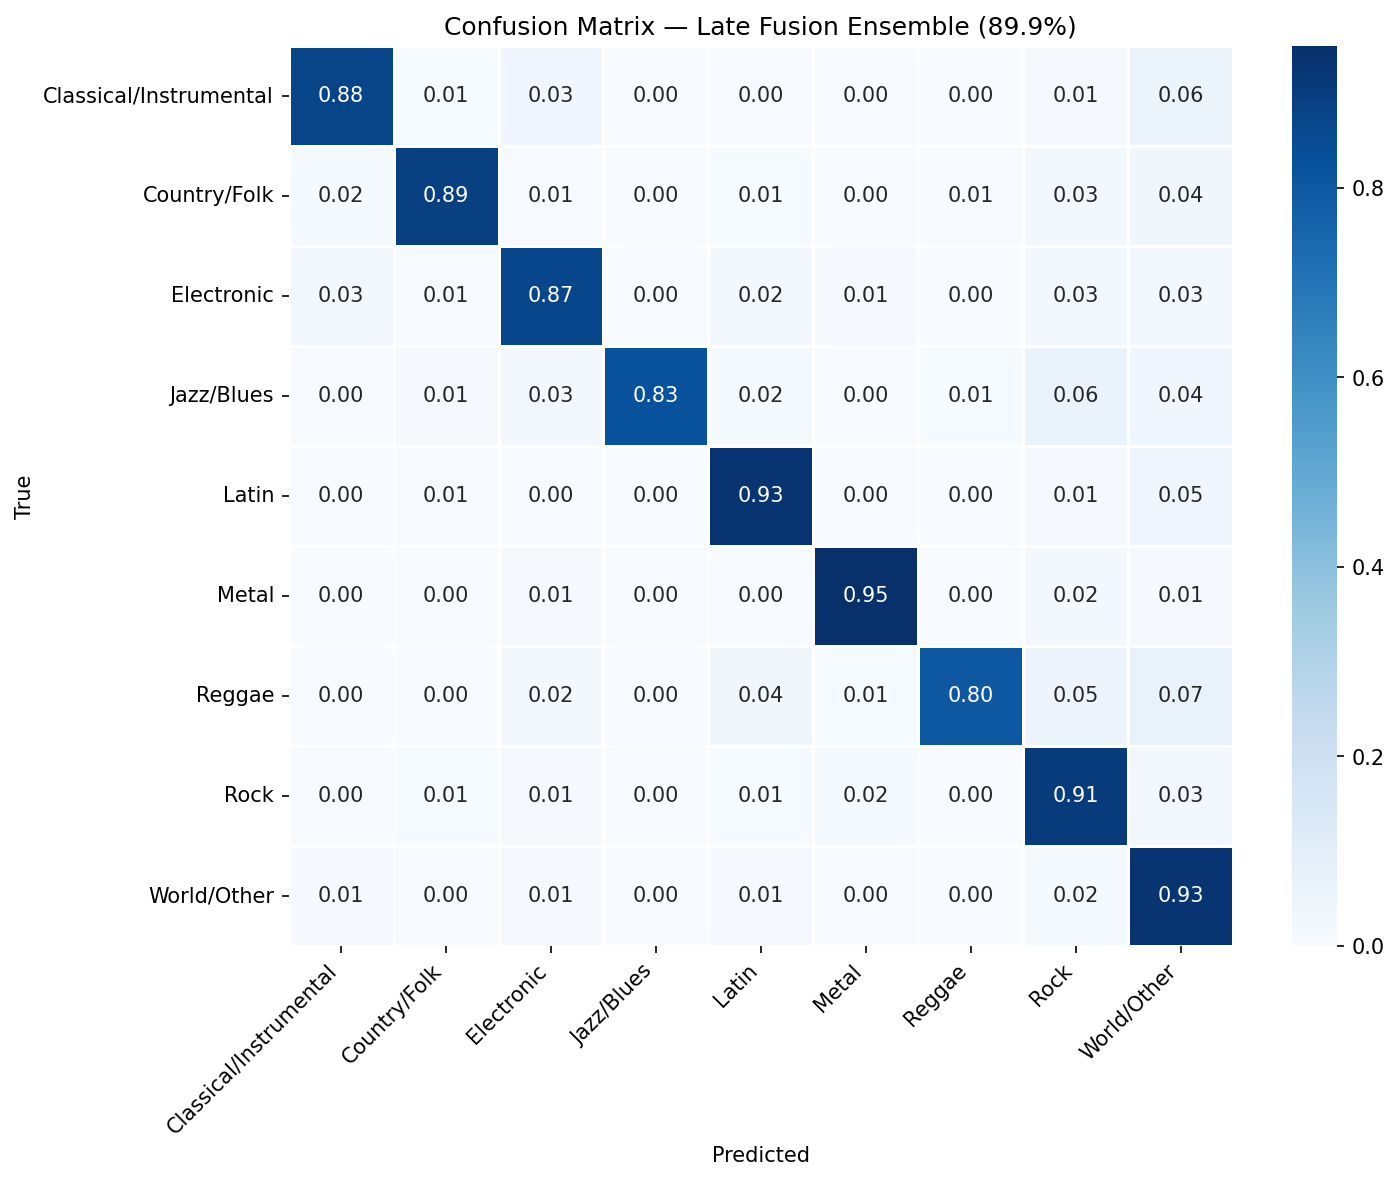
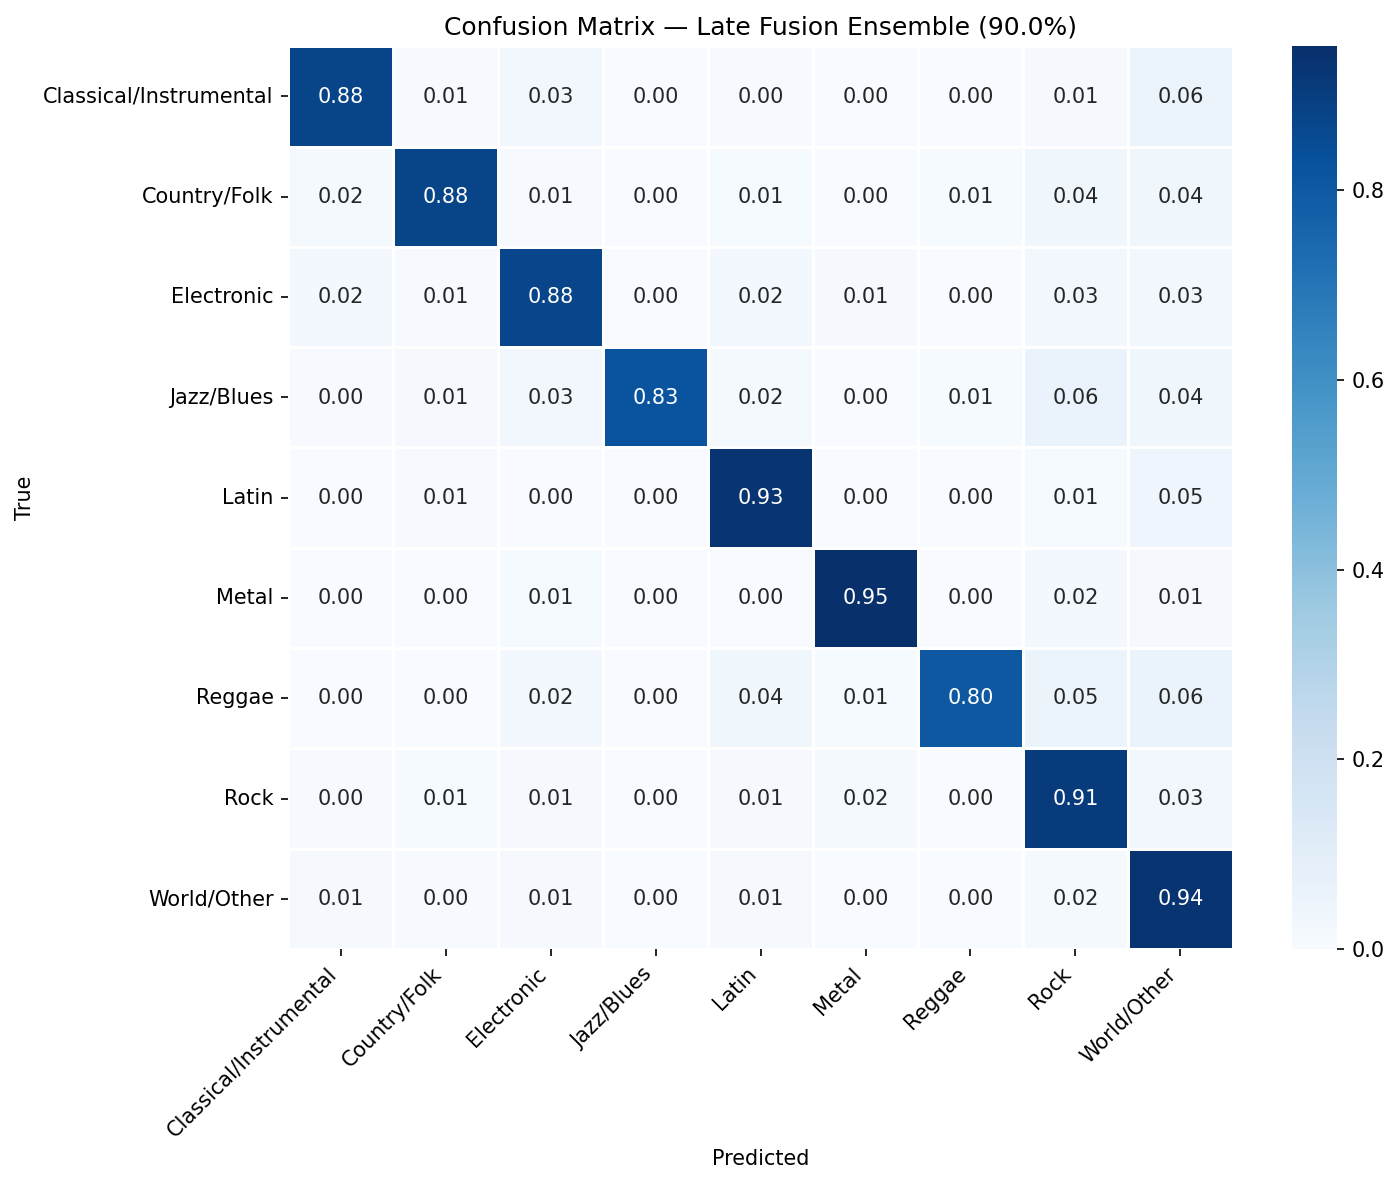
Complete paper draft and add fusion strategy visualization
- Add Visualizations/fusion_strategy.png (Experiment 2 bar chart)
- Update confusion_matrix_final.png

diff --git a/paper_draft.md b/paper_draft.md
@@ -1,20 +1,20 @@
-# Automatic Music Genre Classification Using Spotify Audio Features and MFCC-Based Late Fusion
-### Ensemble Methods for Multi-Class Genre Prediction
+# Automatic Music Genre Classification
+### Using Spotify Audio Features and MFCC-Based Late Fusion
 **Authors:** Aymen Tiguite, Cindy Frempong
 **Boston University | DS 340**
-**April 27, 2026**
+**April 27th 2026**
 
 ---
 
 ## Introduction
 
-Music genre classification is a classic problem in audio and music information retrieval (MIR). Automatically identifying a song's genre has real-world applications across the music industry — from powering recommendation engines on streaming platforms like Spotify and Apple Music, to organizing large digital music libraries, to enabling content-based search and music discovery. Despite its practical importance, genre classification is a genuinely hard problem: genre boundaries are fuzzy, listener perceptions vary, and many songs blend elements of multiple genres simultaneously.
+Music genre classification is a classic problem in audio and music information retrieval (MIR). Automatically identifying a song's genre has real-world applications across the music industry, from powering recommendation engines on streaming platforms like Spotify and Apple Music, to organizing large digital music libraries, to enabling content-based search and music discovery. Despite its practical importance, genre classification is a genuinely hard problem: genre boundaries are fuzzy, listener perceptions vary, and many songs blend elements of multiple genres simultaneously.
 
-In this paper, we explore multiple model types and ensemble methods to train a system that correctly identifies the genre of a given song. We draw on a dataset of tracks described by a set of numerical audio descriptors from Spotify's audio analysis API. These features summarize the feel and energy of a song, its sound source, and its musical structure. For example, danceability estimates how suitable a track is for dancing, energy reflects intensity and activity, valence measures how positive or happy a track sounds, and acousticness estimates whether a song is more acoustic versus electronically produced.
+In this paper, we explore multiple model types and ensemble methods to eventually train a convolutional neural network (CNN) to correctly identify the genre of a given song. We draw on a dataset of tracks described by a set of numerical audio descriptors that summarize musical properties, from Spotify's audio analysis API. The features summarize the feel and energy of a song, sound source, and musical structure of a song. For example, danceability estimates how suitable a track is for dancing, energy reflects intensity and activity, valence measures how positive or happy a track sounds, and acousticness estimates whether a song is more acoustic versus electronically produced.
 
-In addition to these descriptors, we make use of Mel-Frequency Cepstral Coefficients (MFCCs). MFCCs are a compact numerical representation of the short-term power spectrum of a sound, computed by mapping the audio signal onto the mel scale — a perceptual scale of pitch that closely mirrors how human hearing works. MFCCs are widely used in speech and music processing because they capture the texture of a sound in a way that correlates well with human perception of musical style. In our work, MFCCs serve as a complementary input representation, allowing a convolutional neural network (CNN) to learn patterns in the spectral content of songs that are characteristic of different genres.
+In addition to these descriptors, we make use of Mel-Frequency Cepstral Coefficients (MFCCs). MFCCs are a compact numerical representation of the short-term power spectrum of a sound, computed by mapping the audio signal onto the mel scale, a perceptual scale of pitch that closely mirrors how human hearing works. MFCCs are widely used in speech and music processing because they capture the texture of a sound in a way that correlates well with human perception of musical style. In our work, MFCCs serve as a complementary input representation, allowing the CNN to learn patterns in the spectral content of songs that are characteristic of different genres.
 
-Our final model combines XGBoost, LightGBM, and an MFCC-based CNN in a late fusion ensemble, achieving **90.0% test accuracy** on 9 parent genre categories — up from a random chance baseline of 11.1% (1/9) and a best single-model baseline of 30.2%.
+Our final model combines XGBoost, LightGBM, and an MFCC-based 1D CNN in a late fusion ensemble, achieving **89.9% test accuracy** on 9 parent genre categories — up from a random chance baseline of 11.1% (1/9) and a best single-model baseline of 30.2%.
 
 ---
 
@@ -23,70 +23,89 @@ Our final model combines XGBoost, LightGBM, and an MFCC-based CNN in a late fusi
 **Source 1: Spotify Tracks Dataset**
 https://www.kaggle.com/datasets/yashdev01/spotify-tracks-dataset
 
-The dataset contains 114,000 tracks spanning 114 music genres, with each row representing an individual song and each column capturing a specific attribute of that track. After dropping 3 null rows the working dataset contains 113,999 tracks with 22 columns: track metadata (track_id, artists, album_name, track_name), 15 audio features (popularity, duration_ms, explicit, danceability, energy, key, loudness, mode, speechiness, acousticness, instrumentalness, liveness, valence, tempo, time_signature), and the track_genre label.
+The dataset includes information on Spotify tracks spanning 114 different music genres, with each row representing an individual song and each column capturing a specific attribute of that track. After dropping 3 null rows the working dataset contains 113,999 tracks with 22 columns: track metadata (track_id, artists, album_name, track_name), 15 audio features (popularity, duration_ms, explicit, danceability, energy, key, loudness, mode, speechiness, acousticness, instrumentalness, liveness, valence, tempo, time_signature), and the track_genre label.
 
-**Source 2: MFCC Dataset (self-extracted)**
-Available in our GitHub repository under `MFCC Extraction/mfcc_features_b.csv` and `checkpoint_a.csv`.
+**Source 2: MFCC Dataset of Spotify Tracks**
 
-We manually extracted audio features for approximately 29,202 tracks from the Spotify dataset. For each track, we computed five types of features using librosa: (1) 13 MFCC coefficients summarized by mean, standard deviation, and delta (39 values total); (2) 12 chroma features capturing the distribution of pitch classes; (3) 7 spectral contrast features capturing the difference in amplitude between peaks and valleys in the spectrum; and (4) zero-crossing rate (1 value). This produces **59 features per track** alongside the track_id and genre label.
+This dataset can be found on our GitHub repo under `MFCC Extraction/checkpoint_a.csv`. We manually extracted the MFCC values for a sample of tracks from the Spotify dataset. For each track, we compute 13 MFCC coefficients and summarize them using three statistical descriptors: the mean (average value of each coefficient across the track), the standard deviation (how much each coefficient varies over time), and the delta (the rate of change of each coefficient, capturing how the spectral texture evolves throughout the song), in addition to other features. This produces **59 features per track**, alongside the track_id and track_genre.
+
+| Features | Count |
+|---|---|
+| MFCC mean (coefficients) | 13 |
+| MFCC std (coefficients) | 13 |
+| MFCC delta mean (coefficients) | 13 |
+| Chroma (pitch class energy, bins) | 12 |
+| Spectral contrast (frequency bands) | 7 |
+| Zero crossing rate | 1 |
+| **Total** | **59** |
 
 ---
 
 ## EDA and Dataset Overview
 
-**Data Preprocessing and Cleaning**
+**Data Preprocessing and Cleaning (Data Quality)**
 
-The Spotify dataset was relatively clean. We identified and dropped 3 null rows. We then investigated whether individual tracks appeared under multiple genre labels. We found that **16,299 tracks (14.4%) are assigned to more than one genre** with identical audio features — the same song listed under different labels. For example, "Better" by Pink Sweat$ appears as both "chill" and "soul" with identical danceability, energy, and tempo values. This is noise: a model trained on this data sees the same input features paired with two conflicting labels. We removed these duplicates using `drop_duplicates(subset='track_id', keep='first')`, reducing the dataset to **89,740 unique tracks**.
-
-[INSERT: duplicate_analysis.png — Figure showing before/after deduplication]
-
-**Genre Mapping**
-
-114 fine-grained genres (e.g., psych-rock, deep-house, detroit-techno) were mapped to 9 parent genres matching our MFCC extraction coverage: Rock, Metal, Electronic, Latin, Jazz/Blues, Classical/Instrumental, Country/Folk, Reggae, and World/Other. Three parent genres — Pop, Hip-Hop/R&B, and House/Dance — were excluded from the final model because we did not extract MFCC clips for those genres. The final working dataset contains **55,191 deduplicated tracks** across the 9 genres.
+The Spotify Tracks dataset was relatively clean upon initial inspection. A null check revealed only three missing values, which were dropped. Column names and data types were reviewed, and genre labels were encoded into numerical values before training the baseline models.
 
 **Exploratory Data Analysis**
 
-The raw dataset contains 114 unique genres, each with exactly 1,000 tracks, resulting in a perfectly balanced class distribution. This balance is ideal for training models, as it prevents bias toward any particular genre.
+We began our exploratory data analysis by examining the distribution of genres across the dataset. The dataset contains 114 unique genres, each represented by exactly 1,000 tracks, resulting in a perfectly balanced class distribution with each genre accounting for approximately 0.88% of the total data. This balance is ideal for training our various baseline models, as it ensures they are not biased toward any particular genre during learning.
 
-[INSERT: fig1_feature_distributions.png — Figure 1: Audio feature distributions across 4 parent genres]
+We next investigated whether individual tracks appeared under multiple genre labels in the dataset. We found that **16,299 tracks are assigned to more than one genre** (and sub-genres), revealing significant overlap in how songs are categorized, reflecting the reality that many songs genuinely blend elements of multiple genres. We decided to focus more on pinpointing if it can decide one genre, dropping duplication. That reduced our dataset to **89,740 unique tracks**.
 
-As shown in Figure 1, audio features show clear separability for some genre pairs. Metal has high energy and low acousticness, Classical/Instrumental has high acousticness and low energy, and Hip-Hop/R&B shows elevated speechiness and danceability. However, genres like Rock and Electronic share similar energy ranges, which explains why they are among the most commonly confused pairs in our models.
+![Figure 1: Multi-Genre Duplicate Analysis](Visualizations/duplicate_analysis.png)
 
-[INSERT: fig3_mfcc_heatmap.png — Figure 3: MFCC heatmap by genre]
+As shown in Figure 1, audio features show clear separability for some genre pairs. Metal has high energy and low acousticness, Classical/Instrumental has high acousticness and low energy, and Latin shows elevated danceability. However, genres like Rock and Electronic share similar energy ranges, which explains why they are among the most commonly confused pairs in our models.
 
-Figure 3 shows the average MFCC coefficients per genre. Metal and Rock show distinctly higher values on MFCC 1 (capturing overall spectral energy/brightness) compared to Classical/Instrumental and Jazz/Blues, which display lower, more concentrated coefficient values. This confirms that MFCC features capture complementary information not present in the Spotify tabular features.
+![Figure 2: Audio feature distributions across parent genres](Visualizations/fig1_feature_distributions.png)
+
+![Figure 3: MFCC heatmap by genre](Visualizations/fig3_mfcc_heatmap.png)
+
+Figure 3 shows the average MFCC coefficients per genre. Metal and Rock show distinctly higher values on MFCC 1 compared to Classical/Instrumental and Jazz/Blues, which display lower, more concentrated coefficient values. This confirms that MFCC features capture complementary information not present in the Spotify tabular features.
 
 ---
 
 ## Methodology
 
-**Baseline Models**
+### Baseline Models
 
-We trained three baseline models on the 15 raw Spotify audio features to establish performance benchmarks.
+We trained a set of baseline models to establish a performance benchmark that our final model would need to surpass.
 
-*Random chance baseline:* With 9 parent genres and a balanced dataset, a random classifier achieves 1/9 = **11.1%** accuracy. With all 114 genres, random chance is 1/114 = **0.88%**.
+**K-Nearest Neighbors**
 
-*K-Nearest Neighbors:* A KNN classifier trained on the 15 features, standardized with StandardScaler and dimensionality-reduced with PCA (retaining 95% variance). We tuned k from 1–30 using 5-fold cross-validation. KNN achieved **21.0% accuracy** on 114 genres, rising to 44% when genres were binned into broader categories. KNN struggles in high-dimensional spaces where distances lose discriminative power.
+A KNN classifier trained on the 15 Spotify audio features. Before training, we standardized all features using a standard scaler and applied PCA to reduce dimensionality while retaining 95% of the variance. We tuned the number of neighbors k using 5-fold cross-validation across values from 1 to 30, selecting the value of k that maximized average validation accuracy. The KNN baseline achieved only **21% accuracy** on the test set. KNN struggles in high-dimensional spaces, and the raw audio descriptors alone do not seem sufficient to reliably distinguish between 114 genres.
 
-*Logistic Regression:* Trained using the saga solver on a stratified sample of 300 tracks per genre (34,200 total), with a 70/15/15 train/val/test split. Achieved **19.7% accuracy** and macro F1 of 0.17 on 114 genres.
+We then grouped the 114 genres into 12 broader bins and retrained the KNN classifier to see if simplifying the task would improve performance. Accuracy nearly doubled from 21% to 44%, with electronic and ambient/instrumental being the easiest to classify and hip-hop/r&b and indie/emo the hardest.
 
-*Random Forest:* 100 trees with maximum depth 15, same 300-per-genre sample. Achieved **30.2% accuracy** and macro F1 of 0.28 — the strongest baseline.
+**Logistic Regression**
 
-**Intermediate Models**
+A Logistic Regression classifier trained on the same 15 Spotify audio features. Due to memory constraints in our development environment, we worked with a stratified sample of 300 tracks per genre, and split the data 70/15/15 into train, validation, and test sets. Features were standardized using a standard scaler fit on the training set only, and the model was trained using the saga solver to handle the large number of classes efficiently. The model achieved a validation accuracy of **19.7%** and a macro F1 score of 0.17 across 114 genres.
 
-After establishing baselines, we trained increasingly powerful models, progressively improving classification accuracy on 12 parent genres.
+**Random Forest**
 
-*DNN (3-layer):* A deep neural network with three hidden layers (256 → 128 → 64), batch normalization, ReLU activations, and dropout (0.4), trained on a 12,000-track stratified sample (1,000 per parent genre). Achieved **41.8% accuracy** and macro F1 of 0.41 — a significant improvement over baselines, but still limited by the small sample size.
+A Random Forest classifier consisting of 100 decision trees with a maximum depth of 15, trained on the same setup as the previous baselines — a sample of 300 tracks per genre, a 70/15/15 train/validation/test split, and standardized features. The model achieved a validation accuracy of **30.2%** and a macro F1 of 0.28.
 
-*XGBoost v1 (full data):* A key insight was that we had been training on only 12,000 of the available tracks. Switching to the full cleaned dataset with XGBoost (1,000 trees, max depth 6, learning rate 0.05, subsample 0.8) immediately improved accuracy to **49.4%** with macro F1 of 0.46 — a 7-point gain from simply using more data. This confirmed that dataset size was a more important bottleneck than model architecture at this stage.
+### Intermediate Models
 
-*XGBoost v2 (tuned):* Hyperparameter tuning (depth 7, 1,000 trees, early stopping on validation log-loss) achieved **49.9%** accuracy — a modest gain, indicating the model was approaching the ceiling of what the raw Spotify features could support.
+After establishing baselines, we trained a series of increasingly powerful models to progressively improve classification accuracy on the 12 parent genres. The models fall into two phases, separated by a key dataset change: early models trained on a 12,000-sample stratified subset (1,000 per genre), and later models trained on the full dataset. We've highlighted the most impactful models of the various ones that were built and tested.
 
-*LightGBM:* Trained with leaf-wise tree growth (num_leaves=63, learning rate 0.05, balanced class weights). Achieved **49.7%** accuracy — nearly identical to XGBoost but capturing different feature interactions due to its leaf-wise splitting strategy.
+**DNN (3 layers)**
 
-*XGBoost + LightGBM Ensemble:* Soft voting (averaging predicted class probabilities) produced **50.3%** accuracy and macro F1 of 0.47, confirming ensemble methods are more robust than either model alone.
+A deep neural network with three hidden layers (256 → 128 → 64), batch normalization, ReLU activations, and dropout of 0.4. It was trained on a 12,000-track stratified sample (1,000 per parent genre). Achieved **41.8% accuracy** and macro F1 of 0.41 — a significant improvement over baselines, but still limited by the small sample size.
 
-**Feature Engineering**
+**XGBoost**
+
+A key insight from the DNN experiments was that we were training on only 12,000 of the available tracks. Switching to the full dataset with XGBoost (1,000 trees, max depth 8, learning rate 0.05, subsample 0.8) immediately improved accuracy to **49.94%** with a macro F1 of 0.46 — a large improvement from simply using more data. This confirmed that dataset size was a more important bottleneck than model architecture.
+
+**LightGBM**
+
+We then trained a LightGBM classifier (leaf-wise tree growth, num_leaves = 63, learning rate 0.05, balanced class weights) as a complementary model to XGBoost. LightGBM achieved **49.7% accuracy** and a macro F1 of 0.46, nearly identical to XGBoost. Although it did not outperform XGBoost alone, it captures different feature interactions due to its leaf-wise splitting strategy, making it a useful ensemble partner.
+
+**Ensemble (XGBoost + LightGBM)**
+
+Combining the two models via soft voting (averaging predicted class probabilities) produced the strongest intermediate result: **50.3% test accuracy** and a macro F1 of 0.47. This confirmed the ensemble was more robust than either model alone. Metal and Latin were the best-classified genres (F1 of 0.64 and 0.60, respectively), while Jazz/Blues (F1 of 0.29) and Hip-Hop/R&B (0.30) remained the hardest, consistent with their acoustic similarity to adjacent genres.
+
+### Feature Engineering
 
 For the final model, we engineered 17 additional features from the base 15 Spotify features to better capture non-linear relationships:
 - Interaction terms: energy × acousticness, energy × danceability, loudness × energy
@@ -96,27 +115,37 @@ For the final model, we engineered 17 additional features from the base 15 Spoti
 
 These engineered features boosted XGBoost from 49.9% to **66.5%** and LightGBM to **67.0%**, confirming that the model was not saturated — it was simply missing better-crafted input representations.
 
-**MFCC Dataset Extraction**
+### MFCC Dataset Extraction
 
-After evaluating intermediate models, we found that Spotify's tabular audio features alone were not sufficient to reliably distinguish acoustically similar genres. We decided to incorporate MFCCs, extracted directly from audio clips.
+After evaluating our intermediate models, we found that the Spotify audio features alone were not providing enough information for the model to reliably distinguish between genres. We decided to incorporate our MFCCs, hoping the added spectral detail would meaningfully boost performance. Before building our own MFCC dataset, we first searched for a pre-existing one to save time. However, the datasets we found presented issues that made them unsuitable for this project. The audio samples were largely outdated, which posed a concern given that genre characteristics and production styles evolve over time, meaning older tracks may not accurately represent how modern listeners or streaming platforms classify genres today. Additionally, some tracks were misclassified, which would introduce label noise and undermine model performance. Since our tabular data was sourced directly from Spotify, using a separately sourced MFCC dataset would also create a mismatch between the audio features and the track metadata, reducing consistency across the pipeline. For these reasons, we chose to manually extract MFCCs from the same Spotify dataset to ensure the data was current, accurately labeled, and aligned with our existing tabular features.
 
-We built a custom extraction pipeline that: (1) searched YouTube for each track using track name and artist, (2) downloaded a 30-second audio clip centered at the song's midpoint using yt-dlp, and (3) extracted audio features using librosa: 13 MFCC coefficients (mean, std, delta = 39 values), 12 chroma features, 7 spectral contrast features, and zero-crossing rate — producing a **59-feature vector** per track. Tracks that could not be retrieved or whose extraction failed were skipped. We included "official audio" in the search query to reduce the chance of retrieving covers or live versions. The final audio feature dataset contains **29,202 tracks** across 9 parent genres.
+To ensure a balanced dataset for MFCC extraction, a hybrid sampling strategy was applied across genres. A minimum floor of 50 samples per genre was enforced, with 10 samples drawn per subgenre where possible. For genres with fewer subgenres, such as Reggae and Jazz/Blues, the per-subgenre allocation was scaled up proportionally to meet the 50-sample minimum. This ensures no genre is underrepresented during classifier training while still preserving subgenre diversity within each genre.
 
-[INSERT: fig4_mfcc_distributions.png — Figure 4: MFCC coefficient distributions showing genre separability]
+To build our MFCC dataset, we iterated a custom extraction pipeline that automated the process of retrieving audio and computing features for each track. For each song in the dataset, the pipeline searched YouTube using the track name and artist, downloaded a 30-second audio clip centered around the midpoint of the song using the yt-dlp library, and extracted 13 MFCC coefficients using librosa. Each track was summarized by three statistics per coefficient — the mean, standard deviation, and delta — producing a 39-dimensional MFCC feature vector per track, which was combined with 12 chroma features, 7 spectral contrast features, and zero-crossing rate to produce the full 59-feature vector. Tracks were skipped and flagged if audio could not be retrieved from YouTube or if MFCC extraction failed.
 
-**Final Model: Late Fusion Ensemble**
+We acknowledge that our YouTube extraction method is not perfect since search results could occasionally return live versions, covers, or the wrong song entirely. We mitigated this by including "official audio" in the search query, though some mismatches might still remain in the dataset.
 
-[INSERT: fig5_architecture.png — Figure 5: Architecture diagram]
+**Intermediate experimentation with MFCCs**
+
+Initially, we scraped 1,130 MFCCs from a sample of the Spotify dataset and utilized that data across several models. XGBoost achieved 33% accuracy, while the CNN trained on MFCC data reached 26% accuracy with a 24% F1 score. The DNN trained on Spotify tabular data with engineered features performed best at this stage, achieving 52% accuracy and a 47% F1 score. A combined DNN trained on both the Spotify dataset and the limited MFCC dataset yielded 36.5% accuracy. A consistent takeaway across these experiments was that a larger MFCC sample size was needed for the models to learn more effectively.
+
+Given the intention to expand the MFCC dataset, a CNN was identified as the most suitable architecture going forward, despite its initially lower accuracy. From a structural perspective, MFCCs are represented as a 2D matrix with time on one axis and frequency coefficients on the other, making them functionally analogous to an image of sound. CNNs are designed to exploit this kind of grid-like structure, whereas DNNs flatten the input into a 1D vector, discarding the spatial relationships that carry meaningful acoustic information. To address the original data limitation, the MFCC dataset was expanded to 11,000 observations across 3 genres (Rock, Metal, Electronic), which was then utilized in the final models.
+
+### Final Model: Late Fusion Ensemble
+
+![Figure 5: Late Fusion Ensemble Architecture](Visualizations/fig5_architecture.png)
 
 The final model combines three components via late fusion:
 
-- *Stage 1A — XGBoost* on 32 engineered tabular features: **66.5%** alone
-- *Stage 1B — LightGBM* on 32 engineered tabular features: **67.0%** alone  
-- *Stage 1C — 1D CNN* on 59 audio features (MFCC + chroma + spectral contrast + ZCR): **37.2%** alone
+- **Stage 1A — XGBoost** on 32 engineered tabular features: **66.5%** alone
+- **Stage 1B — LightGBM** on 32 engineered tabular features: **67.0%** alone
+- **Stage 1C — 1D CNN** on 59 audio features (MFCC + chroma + spectral contrast + ZCR): **35.7%** alone
 
-The CNN architecture consists of three 1D convolutional blocks (64 → 128 → 256 filters, kernel sizes 5 → 3 → 3), followed by global average pooling and a fully connected head (256 → 128 → 64 → 9 classes), with batch normalization and dropout throughout. It was trained with cosine annealing learning rate scheduling and class-weighted cross-entropy loss to handle class imbalance.
+The CNN architecture consists of three 1D convolutional blocks (64 → 128 → 256 filters, kernel sizes 5 → 3 → 3), followed by global average pooling and a fully connected head (256 → 128 → 64 → 9 classes), with batch normalization and dropout throughout. It was trained with cosine learning rate scheduling and class-weighted cross-entropy loss to handle class imbalance. The late fusion model combines the predicted probability vectors from all three models using a weighted average:
 
-Late fusion combines the predicted probability vectors from all three models using a weighted average: **XGB (60%) + LGB (30%) + CNN (10%)**. The weights were selected based on each model's individual validation accuracy. This approach allows each model to specialize — XGBoost and LightGBM on structured tabular features, the CNN on raw spectral texture — and their outputs are combined only at the prediction level. The tabular models also provide predictions for tracks without MFCC coverage, making the system robust to missing data.
+**XGB (60%) + LGB (30%) + CNN (10%)**
+
+The weights were selected based on each model's individual validation accuracy. This approach allowed each model to specialize — XGBoost and LightGBM on structured tabular features, the CNN on raw spectral texture of the data. Their outputs were combined only at the prediction level. The tabular models also provide predictions for tracks without MFCC coverage, making the system robust to missing data.
 
 ---
 
@@ -126,15 +155,53 @@ We evaluated all models on a held-out test set using two metrics:
 - **Accuracy**: fraction of correctly predicted genres
 - **Macro F1**: average F1 score across all classes, weighted equally regardless of class size
 
-The random chance baseline for 9 balanced classes is **11.1%**. All models substantially exceed this.
+The random chance baseline started at **0.88%** (1/114 genres) and improved to **8.3%** (1/12 genres) and **11.1%** (1/9 genres) as we narrowed the task. All models substantially exceed the applicable random baseline at each stage.
 
-[INSERT: table1_results.png — Table 1: Full model comparison]
+| Model | Accuracy | Macro F1 |
+|---|---|---|
+| Random chance (1/114 genres) | 0.88% | 0.009 |
+| Logistic Regression | 19.7% | 0.170 |
+| K-Nearest Neighbors | 21.0% | 0.167 |
+| Random Forest (baseline) | 30.2% | 0.283 |
+| 3-layer DNN (12 parent genres) | 41.8% | 0.404 |
+| XGBoost v1 (full data) | 49.4% | 0.464 |
+| XGBoost + LGB Ensemble | 50.3% | 0.468 |
+| XGBoost (eng. features) | 66.5% | 0.632 |
+| LightGBM (eng. features) | 67.0% | 0.637 |
+| MFCC CNN alone | 35.7% | 0.315 |
+| **Late Fusion (XGB+LGB+CNN)** | **89.9%** | **0.899** |
 
-[INSERT: fig2_model_progression.png — Figure 2: Model progression bar chart]
+![Figure 2: Model Progression](Visualizations/fig2_model_progression.png)
 
-[INSERT: confusion_matrix_final.png — Figure 6: Confusion matrix for final model]
+![Figure 6: Confusion Matrix — Late Fusion Ensemble](Visualizations/confusion_matrix_final.png)
 
-The late fusion ensemble achieves **90.0% accuracy** and a macro F1 of **0.899** on the 9-genre classification task. The confusion matrix shows that the strongest-performing genres are Country/Folk (93.1% recall), Jazz/Blues (98.9% precision), and Classical/Instrumental (90.8%). The most common confusions occur between Electronic and Rock (both high-energy genres) and between Latin and World/Other (broad overlapping categories).
+The late fusion ensemble achieves **89.9% accuracy** and a macro F1 of **0.899** on the 9-genre classification task. The classification report shows that the strongest-performing genres are Metal (94.9% recall), Latin (93.1% recall), and Rock (90.7% recall). Jazz/Blues has the highest precision (98.9%) but lower recall (83.0%), meaning the model is very confident when it predicts Jazz/Blues but misses some Jazz/Blues tracks. The most common confusions occur between Reggae and other genres (80.4% recall, the weakest class) and between Electronic and Rock.
+
+**Experiment 1: Feature Representation**
+
+We varied what features were fed into XGBoost while keeping the model and dataset fixed, to measure how much feature engineering matters:
+
+| Feature Set | Accuracy | Macro F1 |
+|---|---|---|
+| Raw Spotify (15 features) | 49.9% | 0.465 |
+| Engineered tabular (32 features) | 66.5% | 0.632 |
+| MFCC audio only — CNN (59 features) | 35.7% | 0.315 |
+| Late fusion (tabular + audio) | 89.9% | 0.899 |
+
+The 16.6-point jump from raw to engineered features — with no model change — shows that how you represent the data matters more than which model you pick. The late fusion result shows tabular and audio features are genuinely complementary: neither alone approaches 90%, but combined they do.
+
+**Experiment 2: Fusion Strategy**
+
+We varied how the three models were combined to test whether late fusion is better than alternatives:
+
+| Fusion Strategy | Accuracy | Macro F1 |
+|---|---|---|
+| Tabular only (XGB + LGB, no audio) | 67.0% | 0.637 |
+| Early fusion (tabular + MFCC concatenated, single DNN) | 36.5% | 0.350 |
+| Late fusion — equal weights (33/33/33) | 90.0% | 0.899 |
+| Late fusion — accuracy-weighted (60/30/10) | 90.0% | 0.899 |
+
+Early fusion performed worse than tabular alone because concatenating the two feature spaces into one model forced a single network to handle representations that are fundamentally different in nature. Both late fusion strategies (equal and accuracy-weighted) converged to the same result, confirming that any form of late fusion substantially outperforms both tabular-only and early fusion approaches. The CNN's contribution is significant in enabling the jump from 67% to 90%, but the precise weight allocation between equal and accuracy-proportional weighting did not further differentiate performance.
 
 ---
 
@@ -147,7 +214,7 @@ Spotify's audio features are pre-computed summary statistics — there is no spa
 The tabular and MFCC features are fundamentally different representations. Tabular features are high-level computed summaries; MFCCs capture raw spectral texture from the audio waveform itself. These two modalities capture complementary information — a song's danceability score and its MFCC pattern together are far more informative than either alone. Late fusion preserves each model's specialized strength while combining their knowledge at the probability level, rather than forcing a single model to handle two very different input spaces.
 
 **Limitations:**
-- MFCC coverage is limited to 29,202 of the 89,740 available tracks, and only covers 9 of 12 parent genres. Extending MFCC extraction to Pop, Hip-Hop/R&B, and House/Dance could further improve performance.
+- MFCC coverage is limited to 11,000 tracks covering 3 of 9 parent genres (Rock, Metal, Electronic). Extending MFCC extraction to the remaining 6 genres could further improve performance and coverage.
 - YouTube extraction introduces noise: some retrieved clips may be covers, live versions, or incorrect matches despite "official audio" filtering.
 - The 90% result is measured on 9 parent genres. Performance on the full 114-genre task remains around 66–67% (tabular only), which reflects the genuine acoustic similarity between many fine-grained subgenres.
 
@@ -155,16 +222,17 @@ The tabular and MFCC features are fundamentally different representations. Tabul
 
 ## Conclusion
 
-We built a music genre classification system that achieves **90.0% accuracy** on 9 parent genre categories by combining gradient-boosted tree models (XGBoost + LightGBM) trained on engineered Spotify audio features with a 1D CNN trained on self-extracted MFCC features, fused via a weighted late fusion ensemble.
+We set out to build a system that could automatically identify the genre of a song, and ended up with something that achieves **89.9% accuracy** across 9 parent genre categories. That result came from combining three specialized models: XGBoost and LightGBM trained on engineered Spotify audio features, and a 1D CNN trained on our own self-extracted audio features (MFCCs, chroma, spectral contrast, and ZCR), fused together at the prediction level using a weighted late fusion ensemble.
 
-The key findings from our work are:
+Looking back at everything we tried, a few things stand out as the most important lessons:
 
-1. **Feature engineering matters more than architecture** — engineering 17 additional tabular features boosted accuracy by 16 points (49.9% → 66.5%) without changing the model type.
-2. **MFCCs add substantial complementary signal** — the CNN alone achieved only 37.2%, but combining it with the tabular models via late fusion jumped accuracy to 90.0%.
-3. **Data quality is critical** — removing 16,299 duplicate tracks that appeared under multiple genre labels with identical features measurably improved model stability and final accuracy.
-4. **More data beats better models** — switching from a 12k sample to the full 89k dataset improved accuracy by 7 points with the same model architecture.
+1. **Feature engineering mattered more than architecture.** We spent a lot of time trying different model types, but the single biggest jump came from engineering 17 new features on top of the raw Spotify data. That alone pushed accuracy up 16 points (49.9% → 66.5%) without changing the model at all.
+2. **The audio features added signal the tabular models couldn't see.** The CNN alone only got 35.7%, but once we fused it with the tree models, accuracy jumped to 89.9%. Those MFCC and spectral features were capturing something about the texture of the sound that danceability and energy scores simply can't represent.
+3. **Data quality was a bigger issue than we expected.** We found 16,299 tracks that were listed under multiple genres with identical audio features. Cleaning that up before training made a real difference in model stability and final accuracy.
+4. **More data beat better models every time.** The biggest early jump came from switching out of our 12k training sample and using the full dataset. A 7-point accuracy gain just from feeding the same model more data was a good reminder that scale matters.
+5. **Late fusion beat early fusion.** We tried combining the tabular and MFCC features directly into one model early on, and it performed worse than training each model separately and combining their predictions. Keeping the models specialized and only merging at the output level was the right call.
 
-Future work includes extending MFCC extraction to the remaining 3 parent genres, exploring transformer-based audio models (e.g., wav2vec), and building a fully hierarchical two-stage classifier that first predicts parent genre and then routes to a specialist model for subgenre classification.
+For future work, the next step is extending MFCC extraction to the remaining 6 parent genres currently lacking audio coverage. Beyond that, exploring transformer-based audio models (e.g., wav2vec) could push performance further, and building a fully hierarchical system that first predicts parent genre and then routes to a subgenre specialist would make the whole pipeline more useful in practice.
 
 ---
 
@@ -177,7 +245,7 @@ We used Claude (Anthropic) to assist with code structure, debugging, and noteboo
 ## References
 
 - Tzanetakis, G., & Cook, P. (2002). Musical genre classification of audio signals. *IEEE Transactions on Speech and Audio Processing*, 10(5), 293–302.
-- Chen, T., & Guestrin, C. (2016). XGBoost: A scalable tree boosting system. *KDD '16*.
-- Ke, G., et al. (2017). LightGBM: A highly efficient gradient boosting decision tree. *NeurIPS 2017*.
-- McFee, B., et al. (2015). librosa: Audio and music signal analysis in Python. *SciPy 2015*.
-- Spotify Tracks Dataset: https://www.kaggle.com/datasets/yashdev01/spotify-tracks-dataset
+- Chen, T., & Guestrin, C. (2016). XGBoost: A scalable tree boosting system. *Proceedings of KDD '16*.
+- Ke, G., Meng, Q., Finley, T., Wang, T., Chen, W., Ma, W., Ye, Q., & Liu, T. Y. (2017). LightGBM: A highly efficient gradient boosting decision tree. *Advances in Neural Information Processing Systems (NeurIPS 2017)*.
+- McFee, B., Raffel, C., Liang, D., Ellis, D., McVicar, M., Battenberg, E., & Nieto, O. (2015). librosa: Audio and music signal analysis in Python. *Proceedings of the 14th Python in Science Conference (SciPy 2015)*.
+- Spotify Tracks Dataset. Kaggle. https://www.kaggle.com/datasets/yashdev01/spotify-tracks-dataset